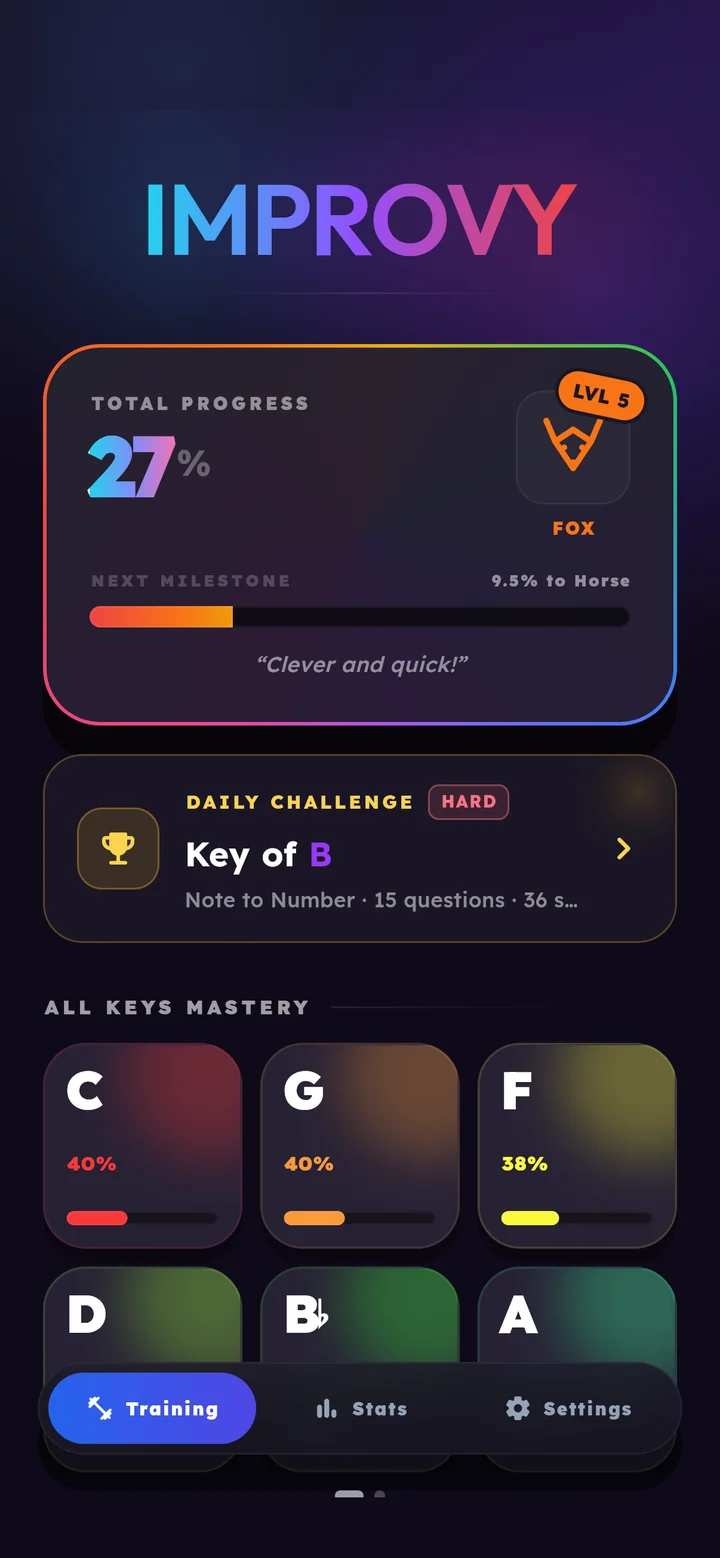
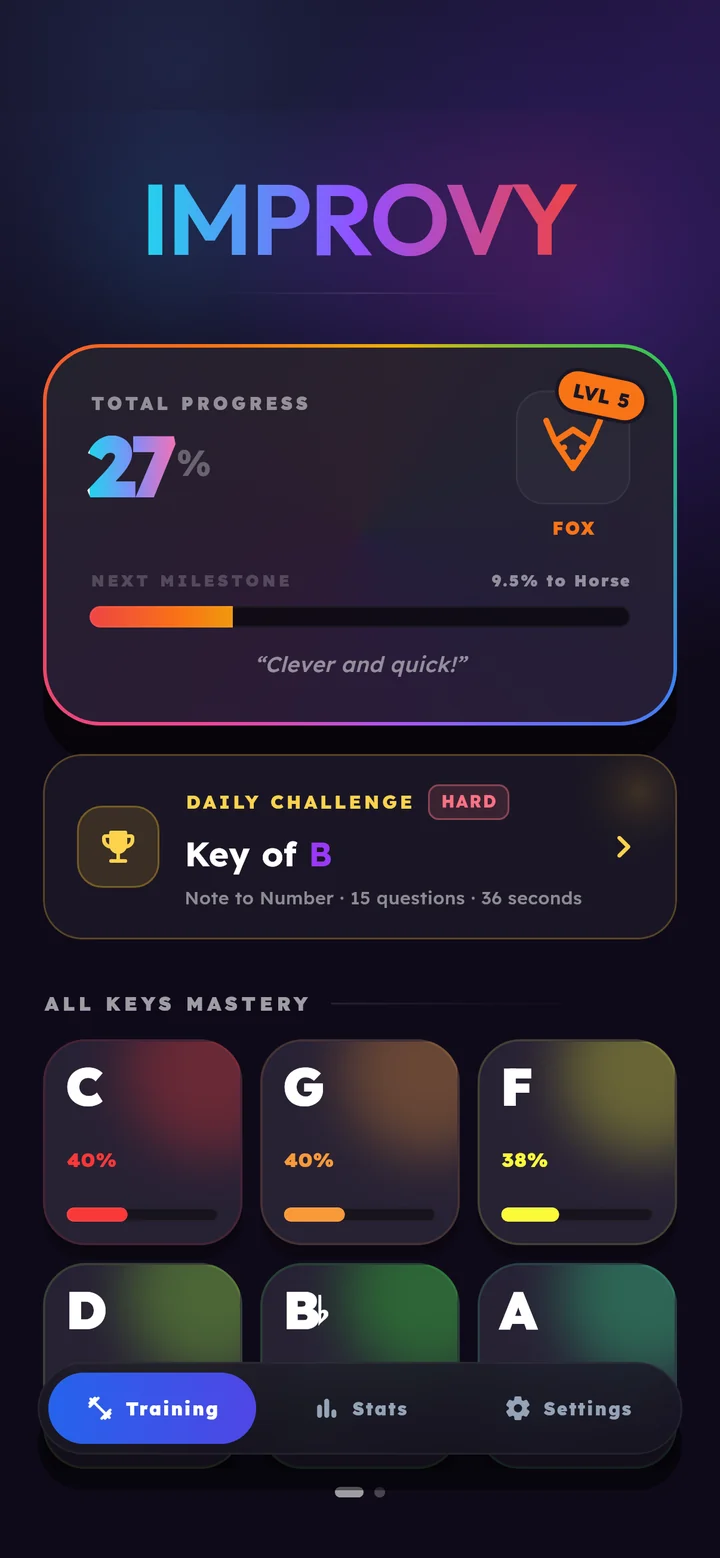
Method page ends on its questions; the hero phone is a real iPhone
- The illuminated keys behind Common questions are gone from the Method
  page (Home keeps its own under the reviews).
- The hero phone draws the Dynamic Island, the status bar and the home
  indicator at iPhone 16 Pro proportions, where the app screenshot leaves
  room for them, instead of an old notch over an empty band.
- Home screenshot re-rendered: the daily line now reads in full.

Claude-Session: https://claude.ai/code/session_01WxjDdAHP8mv3wAafRFViM9

diff --git a/src/components/WhyImprovyPage.tsx b/src/components/WhyImprovyPage.tsx
@@ -152,38 +152,6 @@ interface WhyImprovyPageProps {
 }
 
 export function WhyImprovyPage({ onBack }: WhyImprovyPageProps) {
-  const logoRef = React.useRef<HTMLDivElement | null>(null);
-  const [mousePct, setMousePct] = React.useState({ x: 50, y: 50 });
-  const [isHoveringLogo, setIsHoveringLogo] = React.useState(false);
-
-  React.useEffect(() => {
-    const handleMouseMove = (e: MouseEvent) => {
-      if (!logoRef.current) return;
-      const rect = logoRef.current.getBoundingClientRect();
-      
-      const isInside = (
-        e.clientX >= rect.left - 150 &&
-        e.clientX <= rect.right + 150 &&
-        e.clientY >= rect.top - 150 &&
-        e.clientY <= rect.bottom + 150
-      );
-      
-      setIsHoveringLogo(isInside);
-      
-      if (isInside) {
-        const x = e.clientX - rect.left;
-        const y = e.clientY - rect.top;
-        
-        const pctX = Math.max(0, Math.min(100, (x / rect.width) * 100));
-        const pctY = Math.max(0, Math.min(100, (y / rect.height) * 100));
-        setMousePct({ x: pctX, y: pctY });
-      }
-    };
-
-    window.addEventListener("mousemove", handleMouseMove);
-    return () => window.removeEventListener("mousemove", handleMouseMove);
-  }, []);
-
   return (
     <div className="w-full max-w-6xl mx-auto px-4 pt-24 pb-10 md:pt-28 md:pb-16 text-zinc-300 font-sans relative z-30">
       
@@ -852,101 +820,7 @@ export function WhyImprovyPage({ onBack }: WhyImprovyPageProps) {
       </div>
 
       {/* Closing FAQ — the last doubts, after the method has been explained */}
-      <div className="relative overflow-visible">
-        {/* The keys, behind the very bottom of the page. They used to sit
-            behind the closing call to action, which was the bottom until the
-            questions were added after it. */}
-        <div className="absolute inset-x-0 top-1/2 -translate-y-1/2 pointer-events-none select-none flex items-center justify-center -z-10 overflow-visible">
-              <div ref={logoRef} className="relative w-full max-w-6xl aspect-square overflow-hidden flex items-center justify-center">
-                {/* LAYER 1: BASE DIM KEYS FOR DEPTH (0 opacity for absolute black when not hovering) */}
-                <div className="absolute inset-0 select-none opacity-0 pointer-events-none">
-                  <svg
-                    viewBox="0 0 512 512"
-                    className="w-full h-full max-h-[1100px] object-contain absolute inset-0 select-none pointer-events-none"
-                    fill="none"
-                    xmlns="http://www.w3.org/2000/svg"
-                  >
-                    <defs>
-                      <linearGradient id="bg-key-1-grad-dim" x1="256" y1="104" x2="256" y2="408" gradientUnits="userSpaceOnUse">
-                        <stop offset="0%" stopColor="#7e3ff2" />
-                        <stop offset="50%" stopColor="#26bcff" />
-                        <stop offset="100%" stopColor="#13f5ab" />
-                      </linearGradient>
-                      <linearGradient id="bg-key-2-grad-dim" x1="256" y1="104" x2="256" y2="408" gradientUnits="userSpaceOnUse">
-                        <stop offset="0%" stopColor="#923ff2" />
-                        <stop offset="40%" stopColor="#668bf6" />
-                        <stop offset="100%" stopColor="#85f33d" />
-                      </linearGradient>
-                      <linearGradient id="bg-key-3-grad-dim" x1="256" y1="104" x2="256" y2="408" gradientUnits="userSpaceOnUse">
-                        <stop offset="0%" stopColor="#d633af" />
-                        <stop offset="45%" stopColor="#f5527a" />
-                        <stop offset="100%" stopColor="#ecf52a" />
-                      </linearGradient>
-                      <linearGradient id="bg-key-4-grad-dim" x1="256" y1="104" x2="256" y2="408" gradientUnits="userSpaceOnUse">
-                        <stop offset="0%" stopColor="#f52d50" />
-                        <stop offset="45%" stopColor="#fa7f23" />
-                        <stop offset="100%" stopColor="#fbcb18" />
-                      </linearGradient>
-                    </defs>
-                  
-                    <path d="M 110,104 L 130,104 A 12,12 0 0 1 142,116 L 142,276 C 142,284 156,284 156,292 L 156,392 A 16,16 0 0 1 140,408 L 93,408 A 16,16 0 0 1 77,392 L 77,120 A 16,16 0 0 1 93,104 Z" fill="url(#bg-key-1-grad-dim)" />
-                    <path d="M 196,104 L 223,104 A 12,12 0 0 1 235,116 L 235,276 C 235,284 249,284 249,292 L 249,392 A 16,16 0 0 1 233,408 L 186,408 A 16,16 0 0 1 170,392 L 170,292 C 170,284 184,284 184,276 L 184,116 A 12,12 0 0 1 196,104 Z" fill="url(#bg-key-2-grad-dim)" />
-                    <path d="M 289,104 L 316,104 A 12,12 0 0 1 328,116 L 328,276 C 328,284 342,284 342,292 L 342,392 A 16,16 0 0 1 326,408 L 279,408 A 16,16 0 0 1 263,392 L 263,292 C 263,284 277,284 277,276 L 277,116 A 12,12 0 0 1 289,104 Z" fill="url(#bg-key-3-grad-dim)" />
-                    <path d="M 382,104 L 419,104 A 16,16 0 0 1 435,120 L 435,392 A 16,16 0 0 1 419,408 L 372,408 A 16,16 0 0 1 356,392 L 356,292 C 356,284 370,284 370,276 L 370,116 A 12,12 0 0 1 382,104 Z" fill="url(#bg-key-4-grad-dim)" />
-                  </svg>
-                </div>
-
-                {/* LAYER 2: INTERACTIVE ILLUMINATED MULTI-COLOR KEYS (Responsive to hover & coordinates) */}
-                <div
-                  style={{
-                    position: "absolute",
-                    inset: 0,
-                    pointerEvents: "none",
-                    opacity: isHoveringLogo ? 1.0 : 0,
-                    filter: isHoveringLogo ? "saturate(1.45)" : "none",
-                    maskImage: `radial-gradient(ellipse 35% 35% at ${mousePct.x}% ${mousePct.y}%, black 0%, rgba(0, 0, 0, 0.8) 25%, rgba(0, 0, 0, 0.45) 55%, rgba(0, 0, 0, 0.12) 80%, transparent 100%)`,
-                    WebkitMaskImage: `radial-gradient(ellipse 35% 35% at ${mousePct.x}% ${mousePct.y}%, black 0%, rgba(0, 0, 0, 0.8) 25%, rgba(0, 0, 0, 0.45) 55%, rgba(0, 0, 0, 0.12) 80%, transparent 100%)`,
-                    transition: "opacity 0.4s ease-out, filter 0.3s ease-out"
-                  }}
-                  className="absolute inset-0 select-none pointer-events-none"
-                >
-                  <svg
-                    viewBox="0 0 512 512"
-                    className="w-full h-full max-h-[1100px] object-contain absolute inset-0 select-none pointer-events-none"
-                    fill="none"
-                    xmlns="http://www.w3.org/2000/svg"
-                  >
-                    <defs>
-                      <linearGradient id="bg-key-1-grad-why" x1="256" y1="104" x2="256" y2="408" gradientUnits="userSpaceOnUse">
-                        <stop offset="0%" stopColor="#7e3ff2" />
-                        <stop offset="50%" stopColor="#26bcff" />
-                        <stop offset="100%" stopColor="#13f5ab" />
-                      </linearGradient>
-                      <linearGradient id="bg-key-2-grad-why" x1="256" y1="104" x2="256" y2="408" gradientUnits="userSpaceOnUse">
-                        <stop offset="0%" stopColor="#923ff2" />
-                        <stop offset="40%" stopColor="#668bf6" />
-                        <stop offset="100%" stopColor="#85f33d" />
-                      </linearGradient>
-                      <linearGradient id="bg-key-3-grad-why" x1="256" y1="104" x2="256" y2="408" gradientUnits="userSpaceOnUse">
-                        <stop offset="0%" stopColor="#d633af" />
-                        <stop offset="45%" stopColor="#f5527a" />
-                        <stop offset="100%" stopColor="#ecf52a" />
-                      </linearGradient>
-                      <linearGradient id="bg-key-4-grad-why" x1="256" y1="104" x2="256" y2="408" gradientUnits="userSpaceOnUse">
-                        <stop offset="0%" stopColor="#f52d50" />
-                        <stop offset="45%" stopColor="#fa7f23" />
-                        <stop offset="100%" stopColor="#fbcb18" />
-                      </linearGradient>
-                    </defs>
-
-                    <path d="M 110,104 L 130,104 A 12,12 0 0 1 142,116 L 142,276 C 142,284 156,284 156,292 L 156,392 A 16,16 0 0 1 140,408 L 93,408 A 16,16 0 0 1 77,392 L 77,120 A 16,16 0 0 1 93,104 Z" fill="url(#bg-key-1-grad-why)" />
-                    <path d="M 196,104 L 223,104 A 12,12 0 0 1 235,116 L 235,276 C 235,284 249,284 249,292 L 249,392 A 16,16 0 0 1 233,408 L 186,408 A 16,16 0 0 1 170,392 L 170,292 C 170,284 184,284 184,276 L 184,116 A 12,12 0 0 1 196,104 Z" fill="url(#bg-key-2-grad-why)" />
-                    <path d="M 289,104 L 316,104 A 12,12 0 0 1 328,116 L 328,276 C 328,284 342,284 342,292 L 342,392 A 16,16 0 0 1 326,408 L 279,408 A 16,16 0 0 1 263,392 L 263,292 C 263,284 277,284 277,276 L 277,116 A 12,12 0 0 1 289,104 Z" fill="url(#bg-key-3-grad-why)" />
-                    <path d="M 382,104 L 419,104 A 16,16 0 0 1 435,120 L 435,392 A 16,16 0 0 1 419,408 L 372,408 A 16,16 0 0 1 356,392 L 356,292 C 356,284 370,284 370,276 L 370,116 A 12,12 0 0 1 382,104 Z" fill="url(#bg-key-4-grad-why)" />
-                  </svg>
-                </div>
-              </div>
-            </div>
+      <div className="relative">
         <FaqSection />
       </div>
 

diff --git a/src/App.tsx b/src/App.tsx
@@ -440,22 +440,47 @@ export default function App() {
               >
                 <div className="card">
                   <div className="card-int">
-                    <div className="top"></div>
-                    <div className="speaker"></div>
-                    <div className="camera"></div>
-                    <div className="int"></div>
                     
                     <div className="btn1"></div>
                     <div className="btn2"></div>
                     <div className="btn3"></div>
                     <div className="btn4"></div>
  
-                    <img
-                      src={heroHomeScreenImg}
-                      alt="Improvy training home screen with total progress and all-keys mastery"
-                      className="w-full h-full object-cover"
-                      referrerPolicy="no-referrer"
-                    />
+                    <div className="phone-screen">
+                      <img
+                        src={heroHomeScreenImg}
+                        alt="Improvy training home screen with total progress and all-keys mastery"
+                        className="w-full h-full object-cover"
+                        referrerPolicy="no-referrer"
+                      />
+                      {/* The screenshot is the app at iPhone 16 Pro geometry, which
+                          leaves the status bar's band and the home indicator's
+                          strip free — so the phone draws them, where an iPhone
+                          does, instead of showing an empty margin. */}
+                      <div className="phone-island" />
+                      <div className="phone-status" aria-hidden="true">
+                        <span className="phone-time">9:41</span>
+                        <span className="phone-icons">
+                          <svg width="17" height="11" viewBox="0 0 17 11" fill="white">
+                            <rect x="0" y="7" width="3" height="4" rx="0.8" />
+                            <rect x="4.6" y="5" width="3" height="6" rx="0.8" />
+                            <rect x="9.2" y="2.6" width="3" height="8.4" rx="0.8" />
+                            <rect x="13.8" y="0" width="3" height="11" rx="0.8" />
+                          </svg>
+                          <svg width="15" height="11" viewBox="0 0 15 11" fill="white">
+                            <path d="M7.5 2.3c2.2 0 4.2.85 5.7 2.25l1.1-1.1A9.6 9.6 0 0 0 7.5.7 9.6 9.6 0 0 0 .7 3.45l1.1 1.1A8.1 8.1 0 0 1 7.5 2.3Z" />
+                            <path d="M7.5 5.4c1.35 0 2.6.5 3.55 1.35l1.1-1.1A6.6 6.6 0 0 0 7.5 3.8a6.6 6.6 0 0 0-4.65 1.85l1.1 1.1A5.1 5.1 0 0 1 7.5 5.4Z" />
+                            <path d="M7.5 8.5c.5 0 .95.18 1.3.48L7.5 10.3 6.2 8.98c.35-.3.8-.48 1.3-.48Z" />
+                          </svg>
+                          <svg width="25" height="12" viewBox="0 0 25 12" fill="none">
+                            <rect x="0.5" y="0.5" width="21" height="11" rx="3.4" stroke="white" strokeOpacity="0.4" />
+                            <rect x="2" y="2" width="18" height="8" rx="2.1" fill="white" />
+                            <path d="M23 4v4c.8-.3 1.3-1.1 1.3-2s-.5-1.7-1.3-2Z" fill="white" fillOpacity="0.45" />
+                          </svg>
+                        </span>
+                      </div>
+                      <div className="phone-home" />
+                    </div>
                   </div>
                 </div>
               </motion.div>

diff --git a/src/index.css b/src/index.css
@@ -187,54 +187,9 @@
   background-position: 100% 100%;
 }
 
-.top {
-  position: absolute;
-  top: 0px;
-  right: 50%;
-  transform: translate(50%, 0%);
-  width: 40%;
-  height: 20px;
-  background-color: black;
-  border-bottom-left-radius: 14px;
-  border-bottom-right-radius: 14px;
-  z-index: 20;
-}
 
-.speaker {
-  position: absolute;
-  top: 3px;
-  right: 50%;
-  transform: translate(50%, 0%);
-  width: 45%;
-  height: 2.5px;
-  border-radius: 2px;
-  background-color: rgb(20, 20, 20);
-  z-index: 21;
-}
 
-.camera {
-  position: absolute;
-  top: 7px;
-  right: 80%;
-  transform: translate(50%, 0%);
-  width: 7px;
-  height: 7px;
-  border-radius: 50%;
-  background-color: rgba(255, 255, 255, 0.06);
-  z-index: 21;
-}
 
-.int {
-  position: absolute;
-  width: 3px;
-  height: 3px;
-  border-radius: 50%;
-  top: 50%;
-  right: 50%;
-  transform: translate(50%, -50%);
-  background-color: rgba(0, 0, 255, 0.212);
-  z-index: 21;
-}
 
 .btn1, .btn2, .btn3, .btn4 {
   position: absolute;
@@ -313,4 +268,68 @@
 }
 ::-webkit-scrollbar-thumb:hover {
   background: #2e2e3a;
+}
+
+.phone-screen {
+  position: relative;
+  width: 100%;
+  height: 100%;
+}
+
+/* The phone's own chrome, at iPhone 16 Pro proportions (402 x 874 pt): the
+   screenshot underneath is laid out for exactly this, so the app's first line
+   sits where it does on a real phone. Percentages are of the screen. */
+.phone-island {
+  position: absolute;
+  top: 1.26%;
+  left: 50%;
+  transform: translateX(-50%);
+  width: 31.3%;
+  height: 4.23%;
+  background: #000;
+  border-radius: 999px;
+  z-index: 20;
+}
+
+.phone-status {
+  position: absolute;
+  top: 3.38%;
+  left: 0;
+  right: 0;
+  height: 0;
+  z-index: 21;
+  pointer-events: none;
+  color: #fff;
+}
+
+.phone-time,
+.phone-icons {
+  position: absolute;
+  top: 0;
+  transform: translate(-50%, -50%);
+  display: flex;
+  align-items: center;
+}
+
+.phone-time {
+  left: 19.5%;
+  font: 600 12px/1 -apple-system, BlinkMacSystemFont, "SF Pro Text", "Inter", system-ui, sans-serif;
+  letter-spacing: -0.01em;
+}
+
+.phone-icons {
+  left: 79%;
+  gap: 4px;
+}
+
+.phone-home {
+  position: absolute;
+  bottom: 0.95%;
+  left: 50%;
+  transform: translateX(-50%);
+  width: 33.3%;
+  height: 4px;
+  border-radius: 999px;
+  background: rgba(255, 255, 255, 0.92);
+  z-index: 20;
 }
